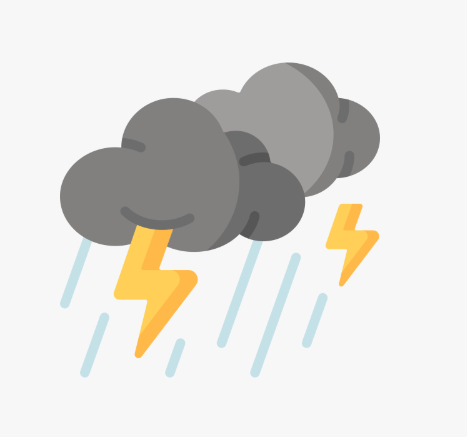
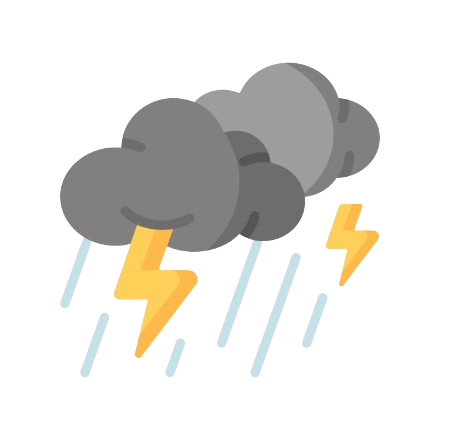
reuploaded images b/c they had a background the look of the app

diff --git a/src/components/Weather.jsx b/src/components/Weather.jsx
@@ -5,10 +5,10 @@ import cloudy_icon from '../assets/cloudy-icon.png'
 
 /*
 import rain_icon from '../assets/rain-icon.png'
-import snowy_icon from '../assets/snowy-icon.png'
+import snowy_icon from '../assets/snow-icon.png'
 import sun_icon from '../assets/sun-icon.png'
 import thunderstorm_icon from '../assets/thunderstorm-icon.png'
-import windy_icon from '../assets/windy-icon.png'
+import windy_icon from '../assets/wind-icon.png'
 import humidity_icon from '../assets/humidity-icon.png'*/
 
 const Weather = () => {
